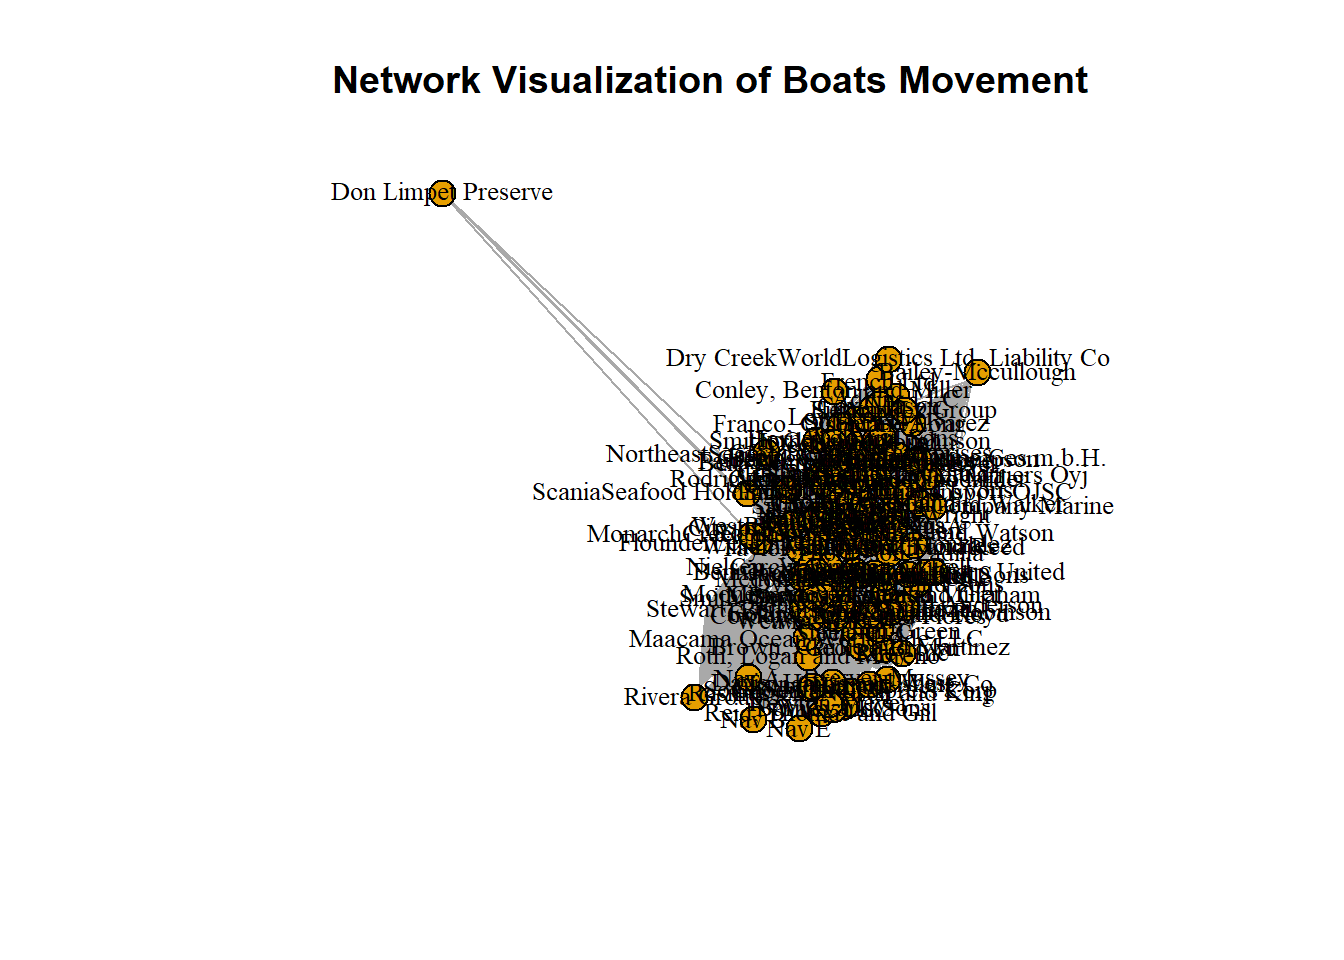
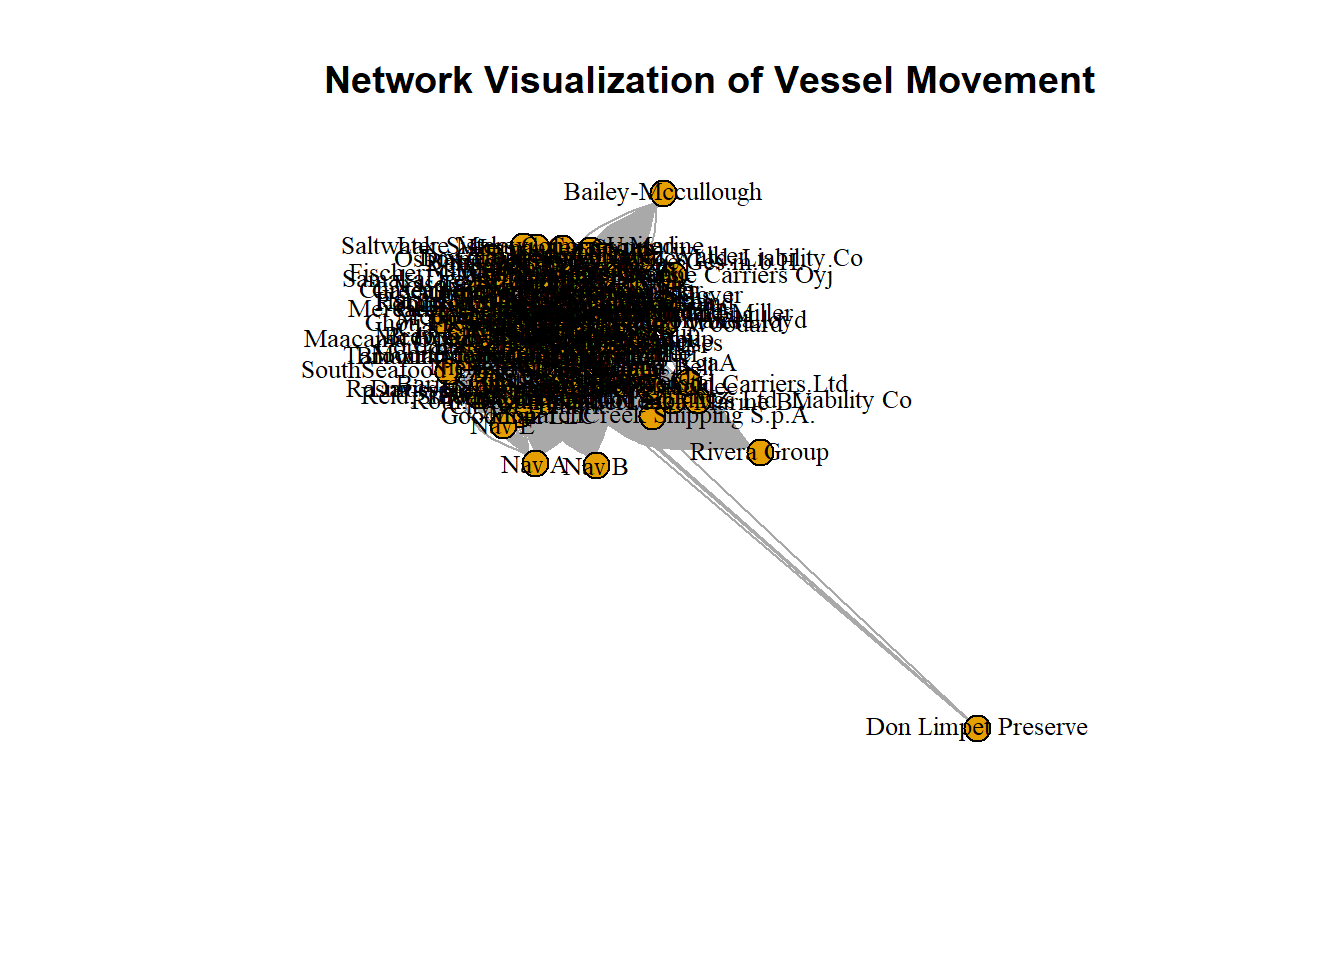
commit

Changed region(s): [[0.2188, 0.1875, 0.8125, 0.7812], [0.2188, 0.0625, 0.8125, 0.0938]]

diff --git a/_site/Take-home_Ex/Take-home_Ex03/Take-home_Ex03.html b/_site/Take-home_Ex/Take-home_Ex03/Take-home_Ex03.html
@@ -436,31 +436,35 @@ pre > code.sourceCode > span > a:first-child::before { text-decoration: underlin
 </section>
 <section id="transponder-ping-pattern" class="level2">
 <h2 class="anchored" data-anchor-id="transponder-ping-pattern">3.2.1 Transponder Ping Pattern</h2>
+<p>Transponder ping data can provide the locations the vessels from shipping company has been to and give insight whether vessels have visited non-fishing areas. In this section, we will focus only on fishing vessels to understand fishing activities.</p>
 <div class="cell">
 <details class="code-fold">
 <summary>Code</summary>
-<div class="sourceCode cell-code" id="cb5"><pre class="sourceCode r code-with-copy"><code class="sourceCode r"><span id="cb5-1"><a href="#cb5-1" aria-hidden="true" tabindex="-1"></a>E_Tping_c <span class="ot">&lt;-</span> E_Tping_c <span class="sc">%&gt;%</span></span>
-<span id="cb5-2"><a href="#cb5-2" aria-hidden="true" tabindex="-1"></a>  <span class="fu">rename</span>(<span class="at">vessel_id =</span> target)</span></code><button title="Copy to Clipboard" class="code-copy-button"><i class="bi"></i></button></pre></div>
+<div class="sourceCode cell-code" id="cb5"><pre class="sourceCode r code-with-copy"><code class="sourceCode r"><span id="cb5-1"><a href="#cb5-1" aria-hidden="true" tabindex="-1"></a><span class="co"># Rename target column as vessel_id</span></span>
+<span id="cb5-2"><a href="#cb5-2" aria-hidden="true" tabindex="-1"></a>E_Tping_c <span class="ot">&lt;-</span> E_Tping_c <span class="sc">%&gt;%</span></span>
+<span id="cb5-3"><a href="#cb5-3" aria-hidden="true" tabindex="-1"></a>  <span class="fu">rename</span>(<span class="at">vessel_id =</span> target)</span></code><button title="Copy to Clipboard" class="code-copy-button"><i class="bi"></i></button></pre></div>
 </details>
 </div>
+<p>Plot a network graph showing all the shipping vessel movements by different companies</p>
 <div class="cell">
 <details class="code-fold">
 <summary>Code</summary>
-<div class="sourceCode cell-code" id="cb6"><pre class="sourceCode r code-with-copy"><code class="sourceCode r"><span id="cb6-1"><a href="#cb6-1" aria-hidden="true" tabindex="-1"></a>E_Tping_c_Fishing <span class="ot">&lt;-</span> E_Tping_c <span class="sc">%&gt;%</span></span>
-<span id="cb6-2"><a href="#cb6-2" aria-hidden="true" tabindex="-1"></a>  <span class="fu">left_join</span>(N_vessel <span class="sc">%&gt;%</span> <span class="fu">select</span>(vessel_id, vessel_type, vessel_company), <span class="at">by =</span> <span class="st">"vessel_id"</span>) <span class="sc">%&gt;%</span></span>
-<span id="cb6-3"><a href="#cb6-3" aria-hidden="true" tabindex="-1"></a>  <span class="fu">filter</span>(vessel_type <span class="sc">==</span> <span class="st">"Fishing"</span>)</span>
-<span id="cb6-4"><a href="#cb6-4" aria-hidden="true" tabindex="-1"></a></span>
-<span id="cb6-5"><a href="#cb6-5" aria-hidden="true" tabindex="-1"></a>edges <span class="ot">&lt;-</span> <span class="fu">data.frame</span>(</span>
-<span id="cb6-6"><a href="#cb6-6" aria-hidden="true" tabindex="-1"></a>  <span class="at">from =</span> E_Tping_c_Fishing<span class="sc">$</span>vessel_company,</span>
-<span id="cb6-7"><a href="#cb6-7" aria-hidden="true" tabindex="-1"></a>  <span class="at">to =</span> E_Tping_c_Fishing<span class="sc">$</span>source</span>
-<span id="cb6-8"><a href="#cb6-8" aria-hidden="true" tabindex="-1"></a>)</span>
-<span id="cb6-9"><a href="#cb6-9" aria-hidden="true" tabindex="-1"></a></span>
-<span id="cb6-10"><a href="#cb6-10" aria-hidden="true" tabindex="-1"></a><span class="co"># Create a graph object</span></span>
-<span id="cb6-11"><a href="#cb6-11" aria-hidden="true" tabindex="-1"></a>graph <span class="ot">&lt;-</span> <span class="fu">graph_from_data_frame</span>(edges, <span class="at">directed =</span> <span class="cn">FALSE</span>)</span>
-<span id="cb6-12"><a href="#cb6-12" aria-hidden="true" tabindex="-1"></a></span>
-<span id="cb6-13"><a href="#cb6-13" aria-hidden="true" tabindex="-1"></a><span class="co"># Plot the network</span></span>
-<span id="cb6-14"><a href="#cb6-14" aria-hidden="true" tabindex="-1"></a><span class="fu">plot</span>(graph, <span class="at">vertex.size=</span><span class="dv">10</span>, <span class="at">vertex.label.cex=</span><span class="fl">0.8</span>, <span class="at">vertex.label.color=</span><span class="st">"black"</span>,</span>
-<span id="cb6-15"><a href="#cb6-15" aria-hidden="true" tabindex="-1"></a>     <span class="at">main=</span><span class="st">"Network Visualization of Boats Movement"</span>)</span></code><button title="Copy to Clipboard" class="code-copy-button"><i class="bi"></i></button></pre></div>
+<div class="sourceCode cell-code" id="cb6"><pre class="sourceCode r code-with-copy"><code class="sourceCode r"><span id="cb6-1"><a href="#cb6-1" aria-hidden="true" tabindex="-1"></a><span class="co"># Join data tables to include vessel_type, vessel_company in transponder ping data and filter only Fishing vessel type</span></span>
+<span id="cb6-2"><a href="#cb6-2" aria-hidden="true" tabindex="-1"></a>E_Tping_c_Fishing <span class="ot">&lt;-</span> E_Tping_c <span class="sc">%&gt;%</span></span>
+<span id="cb6-3"><a href="#cb6-3" aria-hidden="true" tabindex="-1"></a>  <span class="fu">left_join</span>(N_vessel <span class="sc">%&gt;%</span> <span class="fu">select</span>(vessel_id, vessel_type, vessel_company), <span class="at">by =</span> <span class="st">"vessel_id"</span>) <span class="sc">%&gt;%</span></span>
+<span id="cb6-4"><a href="#cb6-4" aria-hidden="true" tabindex="-1"></a>  <span class="fu">filter</span>(vessel_type <span class="sc">==</span> <span class="st">"Fishing"</span>)</span>
+<span id="cb6-5"><a href="#cb6-5" aria-hidden="true" tabindex="-1"></a></span>
+<span id="cb6-6"><a href="#cb6-6" aria-hidden="true" tabindex="-1"></a>edges <span class="ot">&lt;-</span> <span class="fu">data.frame</span>(</span>
+<span id="cb6-7"><a href="#cb6-7" aria-hidden="true" tabindex="-1"></a>  <span class="at">from =</span> E_Tping_c_Fishing<span class="sc">$</span>vessel_company,</span>
+<span id="cb6-8"><a href="#cb6-8" aria-hidden="true" tabindex="-1"></a>  <span class="at">to =</span> E_Tping_c_Fishing<span class="sc">$</span>source</span>
+<span id="cb6-9"><a href="#cb6-9" aria-hidden="true" tabindex="-1"></a>)</span>
+<span id="cb6-10"><a href="#cb6-10" aria-hidden="true" tabindex="-1"></a></span>
+<span id="cb6-11"><a href="#cb6-11" aria-hidden="true" tabindex="-1"></a><span class="co"># Create a graph object</span></span>
+<span id="cb6-12"><a href="#cb6-12" aria-hidden="true" tabindex="-1"></a>graph <span class="ot">&lt;-</span> <span class="fu">graph_from_data_frame</span>(edges, <span class="at">directed =</span> <span class="cn">FALSE</span>)</span>
+<span id="cb6-13"><a href="#cb6-13" aria-hidden="true" tabindex="-1"></a></span>
+<span id="cb6-14"><a href="#cb6-14" aria-hidden="true" tabindex="-1"></a><span class="co"># Plot the network</span></span>
+<span id="cb6-15"><a href="#cb6-15" aria-hidden="true" tabindex="-1"></a><span class="fu">plot</span>(graph, <span class="at">vertex.size=</span><span class="dv">10</span>, <span class="at">vertex.label.cex=</span><span class="fl">0.8</span>, <span class="at">vertex.label.color=</span><span class="st">"black"</span>,</span>
+<span id="cb6-16"><a href="#cb6-16" aria-hidden="true" tabindex="-1"></a>     <span class="at">main=</span><span class="st">"Network Visualization of Vessel Movement"</span>)</span></code><button title="Copy to Clipboard" class="code-copy-button"><i class="bi"></i></button></pre></div>
 </details>
 <div class="cell-output-display">
 <div>
@@ -470,33 +474,35 @@ pre > code.sourceCode > span > a:first-child::before { text-decoration: underlin
 </div>
 </div>
 </div>
+<p>Zoom into SouthSeafood Express Corp’s vessel movement to uncover any suspicious behaviour.</p>
 <div class="cell">
 <details class="code-fold">
 <summary>Code</summary>
-<div class="sourceCode cell-code" id="cb7"><pre class="sourceCode r code-with-copy"><code class="sourceCode r"><span id="cb7-1"><a href="#cb7-1" aria-hidden="true" tabindex="-1"></a>E_Tping_c_Fishing_SS <span class="ot">&lt;-</span> E_Tping_c_Fishing <span class="sc">%&gt;%</span></span>
-<span id="cb7-2"><a href="#cb7-2" aria-hidden="true" tabindex="-1"></a>  <span class="fu">filter</span>(vessel_company <span class="sc">==</span> <span class="st">"SouthSeafood Express Corp"</span>)</span>
-<span id="cb7-3"><a href="#cb7-3" aria-hidden="true" tabindex="-1"></a></span>
-<span id="cb7-4"><a href="#cb7-4" aria-hidden="true" tabindex="-1"></a>edges_ss <span class="ot">&lt;-</span> <span class="fu">data.frame</span>(</span>
-<span id="cb7-5"><a href="#cb7-5" aria-hidden="true" tabindex="-1"></a>  <span class="at">from =</span> E_Tping_c_Fishing_SS<span class="sc">$</span>vessel_company,</span>
-<span id="cb7-6"><a href="#cb7-6" aria-hidden="true" tabindex="-1"></a>  <span class="at">to =</span> E_Tping_c_Fishing_SS<span class="sc">$</span>source</span>
-<span id="cb7-7"><a href="#cb7-7" aria-hidden="true" tabindex="-1"></a>)</span>
-<span id="cb7-8"><a href="#cb7-8" aria-hidden="true" tabindex="-1"></a></span>
-<span id="cb7-9"><a href="#cb7-9" aria-hidden="true" tabindex="-1"></a><span class="co"># Create a graph object</span></span>
-<span id="cb7-10"><a href="#cb7-10" aria-hidden="true" tabindex="-1"></a>graph_ss <span class="ot">&lt;-</span> <span class="fu">graph_from_data_frame</span>(edges_ss, <span class="at">directed =</span> <span class="cn">FALSE</span>)</span>
-<span id="cb7-11"><a href="#cb7-11" aria-hidden="true" tabindex="-1"></a></span>
+<div class="sourceCode cell-code" id="cb7"><pre class="sourceCode r code-with-copy"><code class="sourceCode r"><span id="cb7-1"><a href="#cb7-1" aria-hidden="true" tabindex="-1"></a><span class="co"># Filter SouthSeafood Express Corp Vessels Only</span></span>
+<span id="cb7-2"><a href="#cb7-2" aria-hidden="true" tabindex="-1"></a>E_Tping_c_Fishing_SS <span class="ot">&lt;-</span> E_Tping_c_Fishing <span class="sc">%&gt;%</span></span>
+<span id="cb7-3"><a href="#cb7-3" aria-hidden="true" tabindex="-1"></a>  <span class="fu">filter</span>(vessel_company <span class="sc">==</span> <span class="st">"SouthSeafood Express Corp"</span>)</span>
+<span id="cb7-4"><a href="#cb7-4" aria-hidden="true" tabindex="-1"></a></span>
+<span id="cb7-5"><a href="#cb7-5" aria-hidden="true" tabindex="-1"></a>edges_ss <span class="ot">&lt;-</span> <span class="fu">data.frame</span>(</span>
+<span id="cb7-6"><a href="#cb7-6" aria-hidden="true" tabindex="-1"></a>  <span class="at">from =</span> E_Tping_c_Fishing_SS<span class="sc">$</span>vessel_company,</span>
+<span id="cb7-7"><a href="#cb7-7" aria-hidden="true" tabindex="-1"></a>  <span class="at">to =</span> E_Tping_c_Fishing_SS<span class="sc">$</span>source</span>
+<span id="cb7-8"><a href="#cb7-8" aria-hidden="true" tabindex="-1"></a>)</span>
+<span id="cb7-9"><a href="#cb7-9" aria-hidden="true" tabindex="-1"></a></span>
+<span id="cb7-10"><a href="#cb7-10" aria-hidden="true" tabindex="-1"></a><span class="co"># Create a graph object</span></span>
+<span id="cb7-11"><a href="#cb7-11" aria-hidden="true" tabindex="-1"></a>graph_ss <span class="ot">&lt;-</span> <span class="fu">graph_from_data_frame</span>(edges_ss, <span class="at">directed =</span> <span class="cn">FALSE</span>)</span>
 <span id="cb7-12"><a href="#cb7-12" aria-hidden="true" tabindex="-1"></a></span>
-<span id="cb7-13"><a href="#cb7-13" aria-hidden="true" tabindex="-1"></a><span class="co"># Create a vertex attribute to distinguish between boats, SouthSeafood, and other companies</span></span>
-<span id="cb7-14"><a href="#cb7-14" aria-hidden="true" tabindex="-1"></a><span class="fu">V</span>(graph_ss)<span class="sc">$</span>type <span class="ot">&lt;-</span> <span class="fu">ifelse</span>(<span class="fu">V</span>(graph_ss)<span class="sc">$</span>name <span class="sc">==</span> <span class="st">"SouthSeafood Express Corp"</span>, <span class="st">"southseafood"</span>, </span>
-<span id="cb7-15"><a href="#cb7-15" aria-hidden="true" tabindex="-1"></a>                        <span class="fu">ifelse</span>(<span class="fu">V</span>(graph)<span class="sc">$</span>name <span class="sc">%in%</span> E_Tping_c_Fishing_SS<span class="sc">$</span>vessel_id, <span class="st">"boat"</span>, <span class="st">"location"</span>))</span>
-<span id="cb7-16"><a href="#cb7-16" aria-hidden="true" tabindex="-1"></a></span>
-<span id="cb7-17"><a href="#cb7-17" aria-hidden="true" tabindex="-1"></a><span class="co"># Plot the network with ggraph</span></span>
-<span id="cb7-18"><a href="#cb7-18" aria-hidden="true" tabindex="-1"></a><span class="fu">ggraph</span>(graph_ss, <span class="at">layout =</span> <span class="st">'fr'</span>) <span class="sc">+</span>  <span class="co"># 'fr' layout (Fruchterman-Reingold) to spread nodes nicely</span></span>
-<span id="cb7-19"><a href="#cb7-19" aria-hidden="true" tabindex="-1"></a>  <span class="fu">geom_edge_link</span>(<span class="fu">aes</span>(<span class="at">width =</span> <span class="dv">1</span>), <span class="at">edge_colour =</span> <span class="st">"grey"</span>) <span class="sc">+</span>  <span class="co"># Add edges with grey color</span></span>
-<span id="cb7-20"><a href="#cb7-20" aria-hidden="true" tabindex="-1"></a>  <span class="fu">geom_node_point</span>(<span class="fu">aes</span>(<span class="at">color =</span> type), <span class="at">size =</span> <span class="dv">5</span>) <span class="sc">+</span>  <span class="co"># Add nodes with different colors based on type</span></span>
-<span id="cb7-21"><a href="#cb7-21" aria-hidden="true" tabindex="-1"></a>  <span class="fu">geom_node_text</span>(<span class="fu">aes</span>(<span class="at">label =</span> name), <span class="at">repel =</span> <span class="cn">TRUE</span>, <span class="at">size =</span> <span class="dv">3</span>, <span class="at">color =</span> <span class="st">"black"</span>) <span class="sc">+</span>  <span class="co"># Add labels with repulsion</span></span>
-<span id="cb7-22"><a href="#cb7-22" aria-hidden="true" tabindex="-1"></a>  <span class="fu">scale_color_manual</span>(<span class="at">values =</span> <span class="fu">c</span>(<span class="st">"boat"</span> <span class="ot">=</span> <span class="st">"orange"</span>, <span class="st">"location"</span> <span class="ot">=</span> <span class="st">"blue"</span>, <span class="st">"southseafood"</span> <span class="ot">=</span> <span class="st">"red"</span>)) <span class="sc">+</span>  <span class="co"># Define custom colors</span></span>
-<span id="cb7-23"><a href="#cb7-23" aria-hidden="true" tabindex="-1"></a>  <span class="fu">theme_void</span>() <span class="sc">+</span>  <span class="co"># Use a void theme to remove background grid</span></span>
-<span id="cb7-24"><a href="#cb7-24" aria-hidden="true" tabindex="-1"></a>  <span class="fu">labs</span>(<span class="at">title =</span> <span class="st">"Network Visualization of Boats Movement"</span>)  <span class="co"># Add title</span></span></code><button title="Copy to Clipboard" class="code-copy-button"><i class="bi"></i></button></pre></div>
+<span id="cb7-13"><a href="#cb7-13" aria-hidden="true" tabindex="-1"></a></span>
+<span id="cb7-14"><a href="#cb7-14" aria-hidden="true" tabindex="-1"></a><span class="co"># Create a vertex attribute to distinguish between boats, SouthSeafood, and other companies</span></span>
+<span id="cb7-15"><a href="#cb7-15" aria-hidden="true" tabindex="-1"></a><span class="fu">V</span>(graph_ss)<span class="sc">$</span>type <span class="ot">&lt;-</span> <span class="fu">ifelse</span>(<span class="fu">V</span>(graph_ss)<span class="sc">$</span>name <span class="sc">==</span> <span class="st">"SouthSeafood Express Corp"</span>, <span class="st">"southseafood"</span>, </span>
+<span id="cb7-16"><a href="#cb7-16" aria-hidden="true" tabindex="-1"></a>                        <span class="fu">ifelse</span>(<span class="fu">V</span>(graph)<span class="sc">$</span>name <span class="sc">%in%</span> E_Tping_c_Fishing_SS<span class="sc">$</span>vessel_id, <span class="st">"boat"</span>, <span class="st">"location"</span>))</span>
+<span id="cb7-17"><a href="#cb7-17" aria-hidden="true" tabindex="-1"></a></span>
+<span id="cb7-18"><a href="#cb7-18" aria-hidden="true" tabindex="-1"></a><span class="co"># Plot the network with ggraph</span></span>
+<span id="cb7-19"><a href="#cb7-19" aria-hidden="true" tabindex="-1"></a><span class="fu">ggraph</span>(graph_ss, <span class="at">layout =</span> <span class="st">'fr'</span>) <span class="sc">+</span>  <span class="co"># 'fr' layout (Fruchterman-Reingold) to spread nodes nicely</span></span>
+<span id="cb7-20"><a href="#cb7-20" aria-hidden="true" tabindex="-1"></a>  <span class="fu">geom_edge_link</span>(<span class="fu">aes</span>(<span class="at">width =</span> <span class="dv">1</span>), <span class="at">edge_colour =</span> <span class="st">"grey"</span>) <span class="sc">+</span>  <span class="co"># Add edges with grey color</span></span>
+<span id="cb7-21"><a href="#cb7-21" aria-hidden="true" tabindex="-1"></a>  <span class="fu">geom_node_point</span>(<span class="fu">aes</span>(<span class="at">color =</span> type), <span class="at">size =</span> <span class="dv">5</span>) <span class="sc">+</span>  <span class="co"># Add nodes with different colors based on type</span></span>
+<span id="cb7-22"><a href="#cb7-22" aria-hidden="true" tabindex="-1"></a>  <span class="fu">geom_node_text</span>(<span class="fu">aes</span>(<span class="at">label =</span> name), <span class="at">repel =</span> <span class="cn">TRUE</span>, <span class="at">size =</span> <span class="dv">3</span>, <span class="at">color =</span> <span class="st">"black"</span>) <span class="sc">+</span>  <span class="co"># Add labels with repulsion</span></span>
+<span id="cb7-23"><a href="#cb7-23" aria-hidden="true" tabindex="-1"></a>  <span class="fu">scale_color_manual</span>(<span class="at">values =</span> <span class="fu">c</span>(<span class="st">"boat"</span> <span class="ot">=</span> <span class="st">"orange"</span>, <span class="st">"location"</span> <span class="ot">=</span> <span class="st">"blue"</span>, <span class="st">"southseafood"</span> <span class="ot">=</span> <span class="st">"red"</span>)) <span class="sc">+</span>  <span class="co"># Define custom colors</span></span>
+<span id="cb7-24"><a href="#cb7-24" aria-hidden="true" tabindex="-1"></a>  <span class="fu">theme_void</span>() <span class="sc">+</span>  <span class="co"># Use a void theme to remove background grid</span></span>
+<span id="cb7-25"><a href="#cb7-25" aria-hidden="true" tabindex="-1"></a>  <span class="fu">labs</span>(<span class="at">title =</span> <span class="st">"Network Visualization of SouthSeafood Express Corp Vessel Movement"</span>)  <span class="co"># Add title</span></span></code><button title="Copy to Clipboard" class="code-copy-button"><i class="bi"></i></button></pre></div>
 </details>
 <div class="cell-output-display">
 <div>
